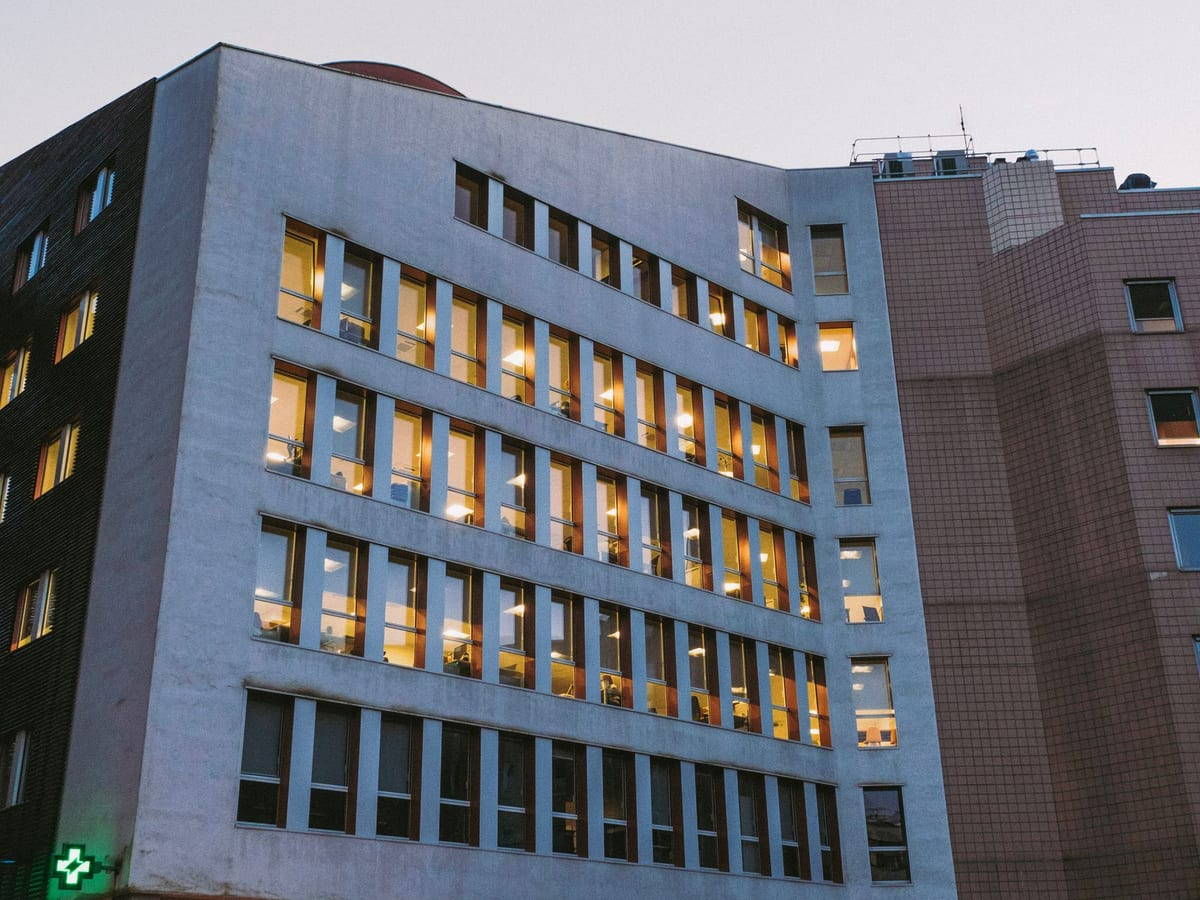
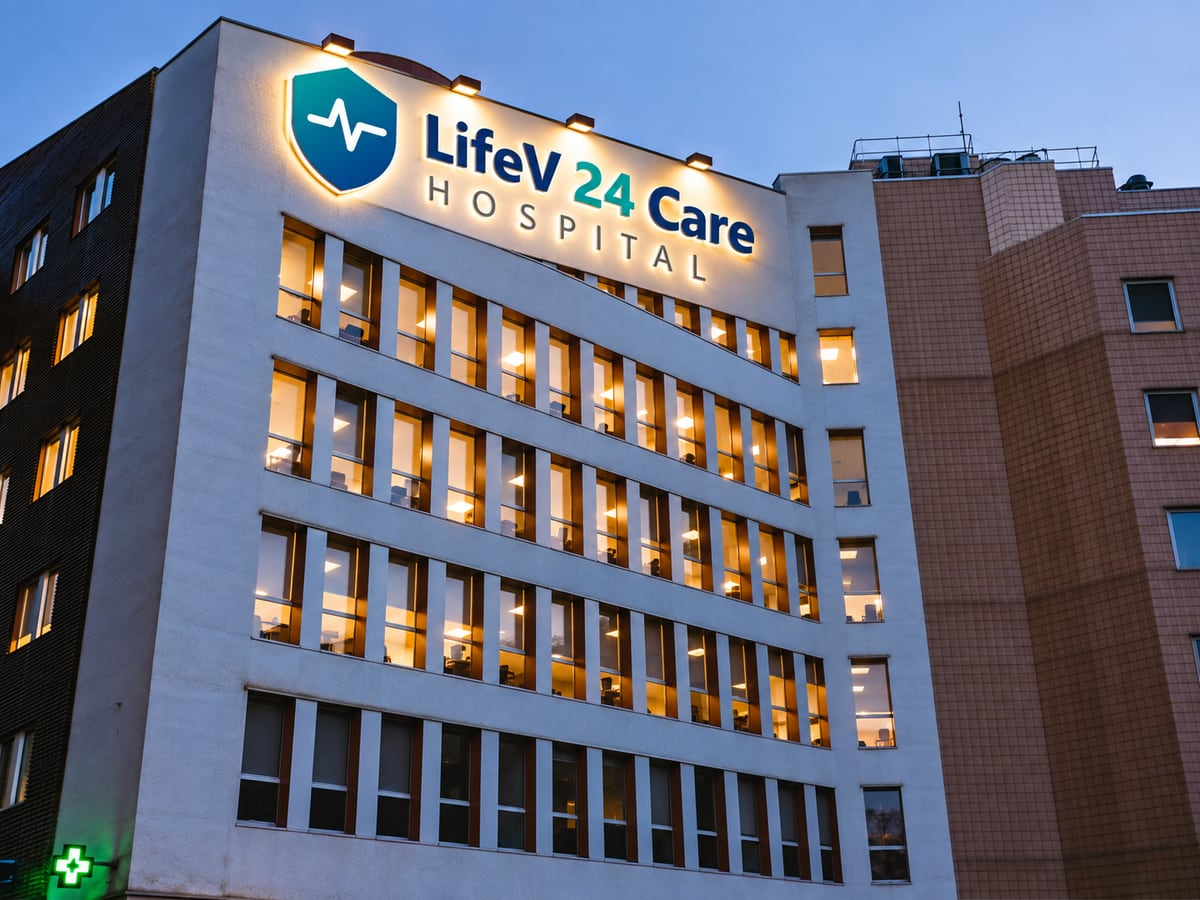
Move hospital to Surat, add Dr. Pravin and Psychiatry department
- Replace the campus photo with the branded LifeV 24 Care building
- Change the address to Plot No. 178, Anand Mahal Road, Surat - 395009, Gujarat
- Add Dr. Pravin, Senior Consultant Psychiatrist, as the first consultant
- Add the Psychiatry department and update the department count to 17
- Show consultant email on the profile page when one is set

diff --git a/server/src/data/site.js b/server/src/data/site.js
@@ -11,11 +11,11 @@ export const hospital = {
   email: 'care@lifev24carehospital.com',
   appointmentsEmail: 'appointments@lifev24carehospital.com',
   address: {
-    line1: 'LifeV 24 Care Hospital, Plot No. 24, Health City Road',
-    line2: 'Near Ring Road Crossing, Sector 12',
-    city: 'New Delhi',
-    state: 'Delhi',
-    pincode: '110085',
+    line1: 'LifeV 24 Care Hospital, Plot No. 178',
+    line2: 'Near Government Girls School, Anand Mahal Road',
+    city: 'Surat',
+    state: 'Gujarat',
+    pincode: '395009',
     country: 'India'
   },
   map: 'https://maps.google.com/?q=28.7041,77.1025',
@@ -38,7 +38,7 @@ export const stats = [
   { value: 20, suffix: '+', label: 'Years of service' },
   { value: 250, suffix: '+', label: 'Inpatient beds' },
   { value: 60, suffix: '+', label: 'Expert consultants' },
-  { value: 16, suffix: '', label: 'Specialities under one roof' },
+  { value: 17, suffix: '', label: 'Specialities under one roof' },
   { value: 45000, suffix: '+', label: 'Patients treated every year' },
   { value: 24, suffix: 'x7', label: 'Emergency and trauma care' }
 ];
@@ -178,7 +178,7 @@ export const whyChooseUs = [
 export const testimonials = [
   {
     name: 'Ramesh Gupta',
-    city: 'Rohini, Delhi',
+    city: 'Adajan, Surat',
     treatment: 'Angioplasty',
     photo: '/images/misc/patient-1.jpg',
     rating: 5,
@@ -186,7 +186,7 @@ export const testimonials = [
   },
   {
     name: 'Sunita Yadav',
-    city: 'Sector 12, New Delhi',
+    city: 'Anand Mahal Road, Surat',
     treatment: 'Painless delivery',
     photo: '/images/misc/patient-2.jpg',
     rating: 5,
@@ -194,7 +194,7 @@ export const testimonials = [
   },
   {
     name: 'Mohd. Aslam',
-    city: 'Bawana, Delhi',
+    city: 'Rander, Surat',
     treatment: 'Knee replacement',
     photo: '/images/misc/patient-3.jpg',
     rating: 5,
@@ -202,7 +202,7 @@ export const testimonials = [
   },
   {
     name: 'Lakshmi Narayanan',
-    city: 'Pitampura, Delhi',
+    city: 'Pal, Surat',
     treatment: 'NICU care for newborn',
     photo: '/images/misc/patient-4.jpg',
     rating: 5,
@@ -210,7 +210,7 @@ export const testimonials = [
   },
   {
     name: 'Jaspreet Kaur',
-    city: 'Ashok Vihar, Delhi',
+    city: 'Athwalines, Surat',
     treatment: 'Gall bladder surgery',
     photo: '/images/misc/patient-5.jpg',
     rating: 4,
@@ -218,7 +218,7 @@ export const testimonials = [
   },
   {
     name: 'Gurdial Singh',
-    city: 'Narela, Delhi',
+    city: 'Vesu, Surat',
     treatment: 'Stroke treatment',
     photo: '/images/misc/patient-6.jpg',
     rating: 5,

diff --git a/client/src/pages/Home.jsx b/client/src/pages/Home.jsx
@@ -24,8 +24,8 @@ export default function Home() {
   const [tsmRef, scrollTsm] = useRail();
 
   useSeo(
-    'LifeV 24 Care Hospital | Multi-Speciality Hospital with 24x7 Emergency, New Delhi',
-    'Multi-speciality hospital with 24x7 emergency and trauma care, 16 specialities, 250+ beds, ICU, NICU, cath lab and dialysis. Book an appointment online.'
+    'LifeV 24 Care Hospital | Multi-Speciality Hospital with 24x7 Emergency, Surat',
+    'Multi-speciality hospital with 24x7 emergency and trauma care, 17 specialities, 250+ beds, ICU, NICU, cath lab and dialysis. Book an appointment online.'
   );
   useReveal();
 
@@ -63,7 +63,7 @@ export default function Home() {
               </span>
               <div>
                 <strong>20 years</strong>
-                <small>of continuous service to north Delhi</small>
+                <small>of continuous service to Surat</small>
               </div>
             </div>
           </div>
@@ -72,7 +72,7 @@ export default function Home() {
             <SectionHead
               eyebrow="About LifeV 24 Care"
               title="A hospital built around the hours when help is hardest to find"
-              text="We opened in 2011 with a single conviction: a serious illness rarely respects clinic timings. Today we run 250 beds, 16 specialities and an emergency floor that has never once closed."
+              text="We opened in 2011 with a single conviction: a serious illness rarely respects clinic timings. Today we run 250 beds, 17 specialities and an emergency floor that has never once closed."
             />
             <ul className="ticks">
               <li>
@@ -118,7 +118,7 @@ export default function Home() {
           <SectionHead
             align="center"
             eyebrow="Centres of Excellence"
-            title="Sixteen specialities, one campus"
+            title="Seventeen specialities, one campus"
             text="Whatever brings you here, the diagnostics, the theatre and the intensive care unit are all in the same building. Nobody is sent across the city mid-treatment."
           />
           <div className="grid g-4">
@@ -128,7 +128,7 @@ export default function Home() {
           </div>
           <div className="center" style={{ marginTop: 40 }}>
             <Link to="/specialities" className="btn btn--ghost">
-              View all 16 departments <Icon name="arrowRight" size={17} />
+              View all 17 departments <Icon name="arrowRight" size={17} />
             </Link>
           </div>
         </div>

diff --git a/client/src/pages/About.jsx b/client/src/pages/About.jsx
@@ -33,7 +33,7 @@ const MILESTONES = [
   },
   {
     year: '2026',
-    title: '250 beds, 16 specialities',
+    title: '250 beds, 17 specialities',
     text: 'The campus now runs 250 beds, five modular theatres, a 12-station dialysis floor and an ambulance fleet averaging a twelve-minute city response.'
   }
 ];
@@ -59,8 +59,8 @@ const VALUES = [
 export default function About() {
   const { data } = useSite();
   useSeo(
-    'About LifeV 24 Care Hospital | 250-bed multi-speciality hospital in New Delhi',
-    'Since 2011, LifeV 24 Care Hospital has run a 24x7 emergency floor, 250 beds and 16 specialities in north Delhi. Read our story, values and milestones.'
+    'About LifeV 24 Care Hospital | 250-bed multi-speciality hospital in Surat',
+    'Since 2011, LifeV 24 Care Hospital has run a 24x7 emergency floor, 250 beds and 17 specialities in Surat. Read our story, values and milestones.'
   );
   useReveal();
 
@@ -68,7 +68,7 @@ export default function About() {
     <>
       <PageHead
         title="About LifeV 24 Care Hospital"
-        text="A 250-bed multi-speciality hospital in north Delhi, open every hour of every day since 2011."
+        text="A 250-bed multi-speciality hospital in Surat, open every hour of every day since 2011."
         crumbs={[{ label: 'About Us' }]}
       />
 
@@ -94,7 +94,7 @@ export default function About() {
               be staffed all twenty-four hours. Fifteen years later, that has never lapsed for a single night.
             </p>
             <p>
-              The hospital has grown into 250 beds and sixteen specialities, but the way we judge ourselves has
+              The hospital has grown into 250 beds and seventeen specialities, but the way we judge ourselves has
               not changed. It is not the equipment list. It is whether a family arriving at 2 AM, frightened
               and without an appointment, is seen quickly, told the truth, and given a number they can afford
               to hear.

diff --git a/client/index.html b/client/index.html
@@ -8,14 +8,14 @@
     <title>LifeV 24 Care Hospital | Multi-Speciality Hospital with 24x7 Emergency</title>
     <meta
       name="description"
-      content="LifeV 24 Care Hospital is a multi-speciality hospital with 24x7 emergency and trauma care, 16 specialities, 60+ consultants, ICU, NICU, cath lab, dialysis and modular operation theatres. Book an appointment online."
+      content="LifeV 24 Care Hospital is a multi-speciality hospital with 24x7 emergency and trauma care, 17 specialities, 60+ consultants, ICU, NICU, cath lab, dialysis and modular operation theatres. Book an appointment online."
     />
     <meta name="keywords" content="multispeciality hospital, 24x7 emergency hospital, cardiology, neurology, orthopaedics, maternity, ICU, NICU, health check up packages" />
     <link rel="canonical" href="https://lifev24carehospital.com/" />
 
     <meta property="og:type" content="website" />
     <meta property="og:title" content="LifeV 24 Care Hospital | Care that never closes" />
-    <meta property="og:description" content="24x7 emergency, 16 specialities, 250+ beds and 60+ consultants under one roof." />
+    <meta property="og:description" content="24x7 emergency, 17 specialities, 250+ beds and 60+ consultants under one roof." />
     <meta property="og:image" content="/images/hero/hero-2.jpg" />
     <meta property="og:url" content="https://lifev24carehospital.com/" />
 
@@ -45,10 +45,10 @@
         ],
         "address": {
           "@type": "PostalAddress",
-          "streetAddress": "Plot No. 24, Health City Road, Sector 12",
-          "addressLocality": "New Delhi",
-          "addressRegion": "Delhi",
-          "postalCode": "110085",
+          "streetAddress": "Plot No. 178, Near Government Girls School, Anand Mahal Road",
+          "addressLocality": "Surat",
+          "addressRegion": "Gujarat",
+          "postalCode": "395009",
           "addressCountry": "IN"
         }
       }

diff --git a/client/src/pages/Contact.jsx b/client/src/pages/Contact.jsx
@@ -38,8 +38,8 @@ export default function Contact() {
   const [result, setResult] = useState(null);
 
   useSeo(
-    'Contact & Directions | LifeV 24 Care Hospital, New Delhi',
-    'Address, emergency and ambulance numbers, OPD timings and directions to LifeV 24 Care Hospital, Sector 12, New Delhi. Send us a message online.'
+    'Contact & Directions | LifeV 24 Care Hospital, Surat',
+    'Address, emergency and ambulance numbers, OPD timings and directions to LifeV 24 Care Hospital, Anand Mahal Road, Surat. Send us a message online.'
   );
   useReveal();
 
@@ -242,8 +242,8 @@ export default function Contact() {
             <div className="side-card side-card--navy">
               <h3>How to reach us</h3>
               <p>
-                We are on Health City Road, about 400 metres from the Ring Road crossing. The nearest metro
-                station is a ten-minute auto ride away, and free patient parking is available in the basement.
+                We are at Plot No. 178 on Anand Mahal Road, near the Government Girls School. Autos and city
+                buses stop close by, and free patient parking is available in the basement.
                 Ambulance access is from the rear gate, which stays open all night.
               </p>
             </div>

diff --git a/server/src/data/specialities.js b/server/src/data/specialities.js
@@ -369,6 +369,29 @@ export const specialities = [
       'Sports and ligament injuries',
       'Frozen shoulder'
     ]
+  },
+  {
+    slug: 'psychiatry',
+    name: 'Psychiatry & Mental Health',
+    short: 'Confidential care for the mind, without judgement.',
+    icon: 'brain',
+    image: '/images/misc/opd-scene.jpg',
+    intro:
+      'Mental health is health. Our psychiatry OPD offers private, unhurried consultations for adults and adolescents, with medication and counselling planned together and families involved only as much as the patient wishes.',
+    highlights: [
+      'Private consultation rooms and confidential records',
+      'Medication management with regular follow-up',
+      'De-addiction programme for alcohol and tobacco',
+      'Counselling for stress, grief and relationship problems',
+      'Liaison psychiatry for patients admitted in other departments'
+    ],
+    conditions: [
+      'Depression and anxiety',
+      'Insomnia and sleep problems',
+      'Alcohol and substance dependence',
+      'Bipolar disorder and schizophrenia',
+      'Obsessive-compulsive disorder'
+    ]
   }
 ];
 

diff --git a/client/src/pages/Specialities.jsx b/client/src/pages/Specialities.jsx
@@ -7,7 +7,7 @@ export default function Specialities() {
   const { data, loading, error } = useApi(() => api.specialities(), []);
   useSeo(
     'Centres of Excellence | Departments at LifeV 24 Care Hospital',
-    'Cardiology, neurosciences, orthopaedics, oncology, nephrology, gynaecology, paediatrics and more - 16 specialities under one roof at LifeV 24 Care Hospital.'
+    'Cardiology, neurosciences, orthopaedics, oncology, nephrology, gynaecology, paediatrics and more - 17 specialities under one roof at LifeV 24 Care Hospital.'
   );
   useReveal();
 
@@ -15,7 +15,7 @@ export default function Specialities() {
     <>
       <PageHead
         title="Centres of Excellence"
-        text="Sixteen departments sharing one campus, one set of theatres and one intensive care floor, so a complicated case never has to move buildings."
+        text="Seventeen departments sharing one campus, one set of theatres and one intensive care floor, so a complicated case never has to move buildings."
         crumbs={[{ label: 'Centres of Excellence' }]}
       />
 

diff --git a/server/src/data/doctors.js b/server/src/data/doctors.js
@@ -8,6 +8,23 @@
 
 export const doctors = [
   {
+    slug: 'dr-pravin',
+    name: 'Dr. Pravin',
+    gender: 'male',
+    designation: 'Senior Consultant Psychiatrist',
+    qualification: 'MD (Psychiatry)',
+    speciality: 'psychiatry',
+    department: 'Psychiatry',
+    email: 'dr.pravinbhai@lifev24carehospital.com',
+    experience: 15,
+    languages: ['Gujarati', 'Hindi', 'English'],
+    opd: 'Mon - Sat',
+    timings: '10:00 AM - 2:00 PM',
+    photo: '/images/doctors/dr-pravin.jpg',
+    bio: 'Dr. Pravin leads the Department of Psychiatry. He sees adults and adolescents for anxiety, depression, sleep problems and addiction, and believes a first consultation should feel like a conversation rather than an interrogation. Families are welcome in the room whenever the patient wants them there.',
+    focus: ['Depression and anxiety disorders', 'De-addiction and alcohol dependence', 'Sleep and stress-related problems']
+  },
+  {
     slug: 'dr-komalben-thakor',
     name: 'Dr. Komalben Rameshji Thakor',
     gender: 'female',

diff --git a/client/src/components/Footer.jsx b/client/src/components/Footer.jsx
@@ -41,7 +41,7 @@ export default function Footer({ specialities = [] }) {
               <img src="/images/misc/logo.svg" alt="LifeV 24 Care Hospital" height="46" />
             </div>
             <p>
-              A 250-bed multi-speciality hospital serving north Delhi since 2011. Emergency, diagnostics,
+              A 250-bed multi-speciality hospital serving Surat since 2011. Emergency, diagnostics,
               pharmacy and ambulance run 24 hours a day, because most emergencies do not arrive during OPD
               hours.
             </p>
@@ -90,7 +90,7 @@ export default function Footer({ specialities = [] }) {
               <li>
                 <Link to="/specialities">
                   <Icon name="chevronRight" size={14} />
-                  View all 16 departments
+                  View all 17 departments
                 </Link>
               </li>
             </ul>

diff --git a/client/src/components/Header.jsx b/client/src/components/Header.jsx
@@ -59,7 +59,7 @@ export default function Header({ specialities = [] }) {
             <li>
               <span className="topbar__item">
                 <Icon name="pin" size={15} />
-                Sector 12, New Delhi
+                Anand Mahal Road, Surat
               </span>
             </li>
             <li>
@@ -105,7 +105,7 @@ export default function Header({ specialities = [] }) {
                     </div>
                     <div className="mega__foot">
                       <span className="muted" style={{ fontSize: '.86rem' }}>
-                        16 specialities, one campus, one team.
+                        17 specialities, one campus, one team.
                       </span>
                       <Link to="/specialities" className="link-arrow">
                         View all departments <Icon name="arrowRight" size={16} />

diff --git a/client/src/lib/site.js b/client/src/lib/site.js
@@ -14,10 +14,10 @@ export const CONTACT = {
   receptionTel: '+916284433778',
   whatsapp: '918360659127',
   email: 'care@lifev24carehospital.com',
-  addressLines: ['Plot No. 24, Health City Road', 'Near Ring Road Crossing, Sector 12', 'New Delhi - 110085'],
+  addressLines: ['Plot No. 178, Near Government Girls School', 'Anand Mahal Road', 'Surat - 395009, Gujarat'],
   // Replace both with your real address before launch.
-  mapQuery: 'Sector 12, Rohini, New Delhi, 110085',
-  mapUrl: 'https://maps.google.com/?q=Sector+12+Rohini+New+Delhi+110085',
+  mapQuery: 'Plot No. 178, Anand Mahal Road, Surat, Gujarat 395009',
+  mapUrl: 'https://maps.google.com/?q=Plot+No+178+Anand+Mahal+Road+Surat+Gujarat+395009',
   hours: [
     ['Emergency & Trauma', 'Open 24 hours, 365 days'],
     ['OPD (Mon - Sat)', '9:00 AM - 8:00 PM'],

diff --git a/client/src/pages/DoctorDetail.jsx b/client/src/pages/DoctorDetail.jsx
@@ -71,6 +71,14 @@ export default function DoctorDetail() {
                       <strong>Speaks:</strong> {data.languages.join(', ')}
                     </span>
                   </li>
+                  {data.email && (
+                    <li>
+                      <Icon name="mail" size={18} />
+                      <span>
+                        <strong>Email:</strong> <a href={`mailto:${data.email}`}>{data.email}</a>
+                      </span>
+                    </li>
+                  )}
                 </ul>
 
                 <div className="hero__cta">
